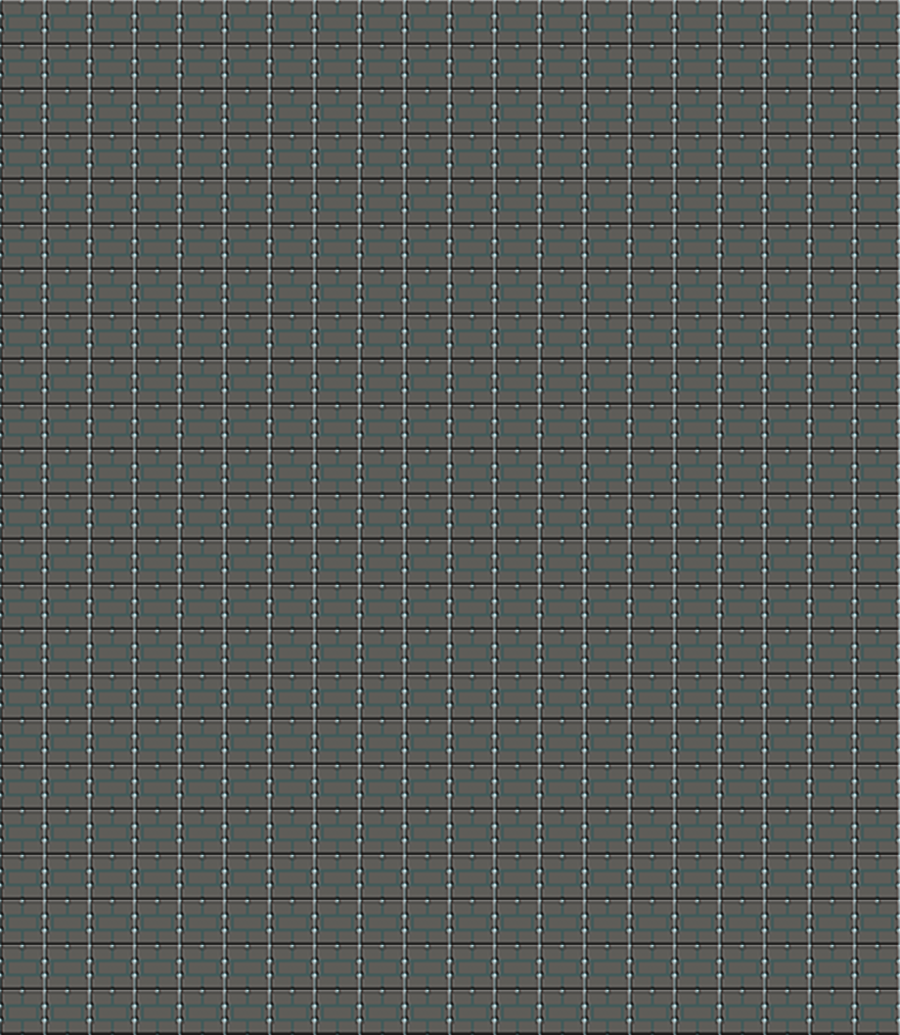
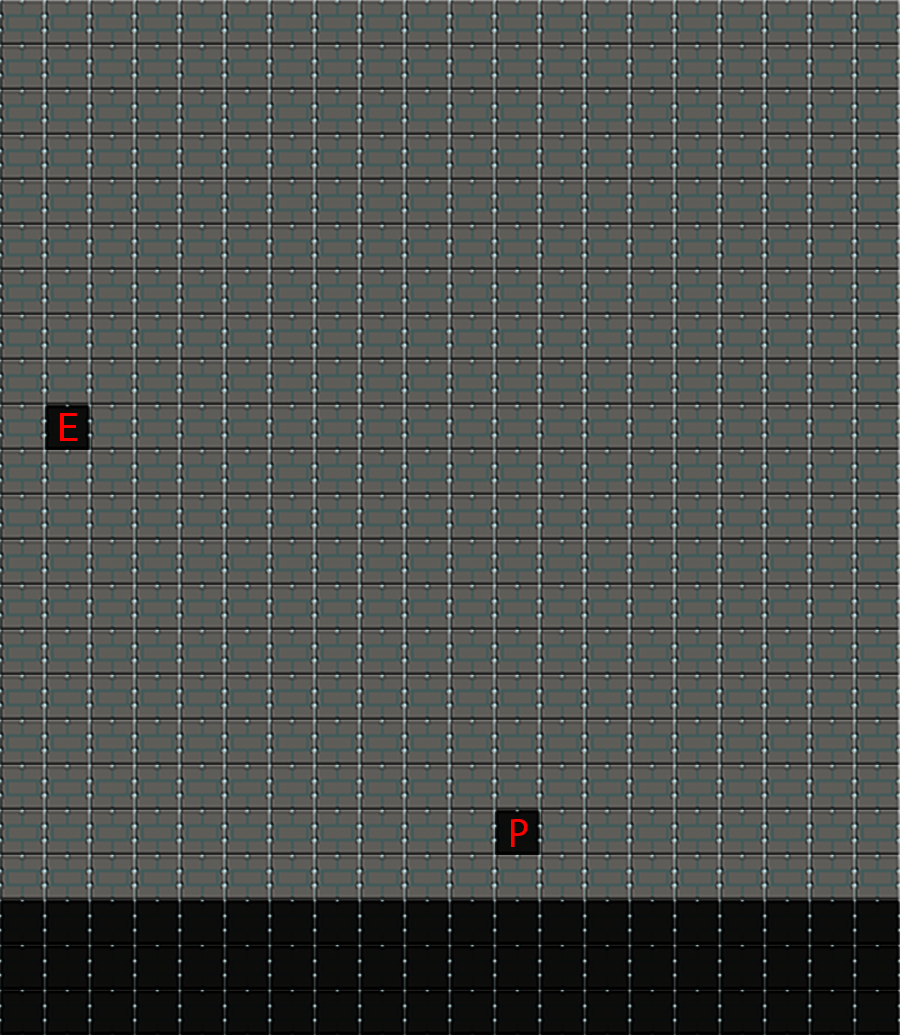
MAPPA EDITOR CORRETTA

Changed region(s): [[0.0, 0.8657, 1.0, 1.0], [0.5289, 0.7729, 0.6222, 0.8348], [0.0311, 0.371, 0.1244, 0.4329]]

diff --git a/VideoGioco/src/main/core/MyEditorPanel.java b/VideoGioco/src/main/core/MyEditorPanel.java
@@ -64,7 +64,7 @@ public class MyEditorPanel extends JPanel{
 	
 	int x = 898*width/1920;  ;  
 	int y = 16*height/1080;	;	
-	int altezza = 1035*height/1080;;
+	int altezza = 900*height/1080;;
 	int larghezza = 900*width/1920;;
 	
 	private Vector<Point> points = new Vector<Point>();
@@ -86,6 +86,9 @@ public class MyEditorPanel extends JPanel{
 		for(int i=0;i<20; i++)
 			for(int j=0;j<23; j++)
 				matrix[i][j]= " ";
+		
+		matrix[11][18] = "player";
+		matrix[1][9] = "enemyAI";
 		initEDITOR();
 		initListener();
 
@@ -253,10 +256,10 @@ public void initListener() {
 						{
 								if(position[0]==1)
 								{
-									if(matrix[(int)(k-x)/45][(int)(h-y)/45] == " ")
+									if(matrix[(int)(k-x)/45][(int)(h-y)/45] == " " &&  (matrix[(int)(k-x)/45][(int)(h-y)/45] != "player" || matrix[(int)(k-x)/45][(int)(h-y)/45] != "enemyAI"))
 									{
 										matrix[(int)(k-x)/45][(int)(h-y)/45]="blocco";
-										for(int i=0;i<20;i++) {
+										for(int i=0;i<10;i++) {
 											SolidBrick s= new SolidBrick(myWorld,(int)((k-x)/45)*10+i,(int)((h-y)/45)*10);
 										
 										
@@ -269,10 +272,10 @@ public void initListener() {
 
 								else if(position[1]==1)
 								{
-									if(matrix[(int)(k-x)/45][(int)(h-y)/45] == " ")
+									if(matrix[(int)(k-x)/45][(int)(h-y)/45] == " " &&  matrix[(int)(k-x)/45][(int)(h-y)/45] != "player" && matrix[(int)(k-x)/45][(int)(h-y)/45] != "enemyAI")
 									{
 										matrix[(int)(k-x)/45][(int)(h-y)/45]="sfera";
-										MovableObject m= new MovableObject(myWorld,((int)(k-x)/45)*10,((int)(h-y)/45)*10,Directions.STOP, 0);
+										MovableObject m= new MovableObject(myWorld,((int)(k-x)/45)*10,((int)(h-y)/45)*10+10-1,Directions.STOP, 0);
 										//editor.addElement(((int)(k-x)/45)*10+i , ((int)(h-y)/45)*10+i,m);
 										editor.addMovableObject(m);
 									}
@@ -281,10 +284,10 @@ public void initListener() {
 
 								else if(position[2]==1)
 								{
-									if(matrix[(int)(k-x)/45][(int)(h-y)/45] == " ")
+									if(matrix[(int)(k-x)/45][(int)(h-y)/45] == " " &&  matrix[(int)(k-x)/45][(int)(h-y)/45] != "player" && matrix[(int)(k-x)/45][(int)(h-y)/45] != "enemyAI")
 									{
 										matrix[(int)(k-x)/45][(int)(h-y)/45]="nemico";
-										Enemy en= new Enemy(myWorld,(int)(k-x)/45*10,(int)(h-y)/45*10,Directions.STOP, 0);
+										Enemy en= new Enemy(myWorld,(int)(k-x)/45*10,(int)(h-y)/45*10+10-1,Directions.STOP, 0);
 										//editor.addElement(((int)(k-x)/45)* 10+i , ((int)(h-y)/45)* 10+i,en);
 										editor.addEnemy(en);
 										
@@ -293,10 +296,10 @@ public void initListener() {
 
 								else if(position[3]==1)
 								{
-									if(matrix[(int)(k-x)/45][(int)(h-y)/45] == " ")
+									if(matrix[(int)(k-x)/45][(int)(h-y)/45] == " " &&  matrix[(int)(k-x)/45][(int)(h-y)/45] != "player" && matrix[(int)(k-x)/45][(int)(h-y)/45] != "enemyAI")
 									{
 										matrix[(int)(k-x)/45][(int)(h-y)/45]="scala";
-										for(int i=0;i<20;i++) {
+										for(int i=0;i<10;i++) {
 										Stairs st= new Stairs(myWorld,(int)(k-x)/45*10,(int)(h-y)/45*10+i);
 										//editor.addElement(((int)(k-x)/45)* 10+i , ((int)(h-y)/45)* 10+i,st);
 										editor.addStair(st);

diff --git a/VideoGioco/src/main/managers/GameManager.java b/VideoGioco/src/main/managers/GameManager.java
@@ -188,41 +188,6 @@ public class GameManager {
 	{
 		world= new World (20*fattore,23*fattore);
 		
-			/*solidBricks= new SolidBrick[editor.getSolidBricks().size()];
-			for(int i=0,k=0; i<editor.getSolidBricks().size(); i++)
-			{
-				
-					solidBricks[k++]= new SolidBrick (world,editor.getSolidBricks().get(i).getX()*fattore,editor.getSolidBricks().get(i).getY()*fattore) ;
-					for(int j=0; j<20; j++)
-						solidBricks[k++]= new SolidBrick (world,editor.getSolidBricks().get(i).getX()*fattore+j,editor.getSolidBricks().get(i).getY()*fattore+j) ;
-
-			}
-			
-			movableObjects = new MovableObject[editor.getMovableObjects().size()];
-			
-			for(int i=0; i<editor.getMovableObjects().size(); i++)
-			{
-				
-				movableObjects[i]= new MovableObject(world,editor.getMovableObjects().get(i).getX()*fattore,editor.getMovableObjects().get(i).getY()*fattore+fattore-1,Directions.STOP,0 );
-			}
-			
-			enemies=new Enemy[editor.getEnemies().size()];
-			for(int i=0; i<editor.getEnemies().size(); i++)
-			{
-				enemies[i]=new Enemy(world,editor.getEnemies().get(i).getX()*fattore,editor.getEnemies().get(i).getY()*fattore+fattore-1,Directions.STOP,1);
-
-			}
-			
-			stairs=new Stairs[editor.getStairs().size()*fattore];
-			for(int i=0,k=0; i<editor.getStairs().size(); i++)
-			{
-				
-					stairs[k++]= new Stairs (world,editor.getStairs().get(i).getX()*fattore,editor.getStairs().get(i).getY()*fattore) ;
-					for(int j=0; j<23; j++)
-						stairs[k++]= new Stairs (world,editor.getStairs().get(i).getX()*fattore+j,editor.getStairs().get(i).getY()*fattore+j) ;
-
-			}*/
-		
 		solidBricks= new SolidBrick[editor.getSolidBricks().size()];
 		movableObjects = new MovableObject[editor.getMovableObjects().size()];
 		enemies=new Enemy[editor.getEnemies().size()];
@@ -249,14 +214,6 @@ public class GameManager {
 		{
 			stairs[i]= editor.getStairs().get(i);
 		}
-
-		
-		
-		
-		
-		
-		
-		
 
 			
 			player= new Player (world,11*fattore,18*fattore+fattore-1, Directions.STOP,1);
